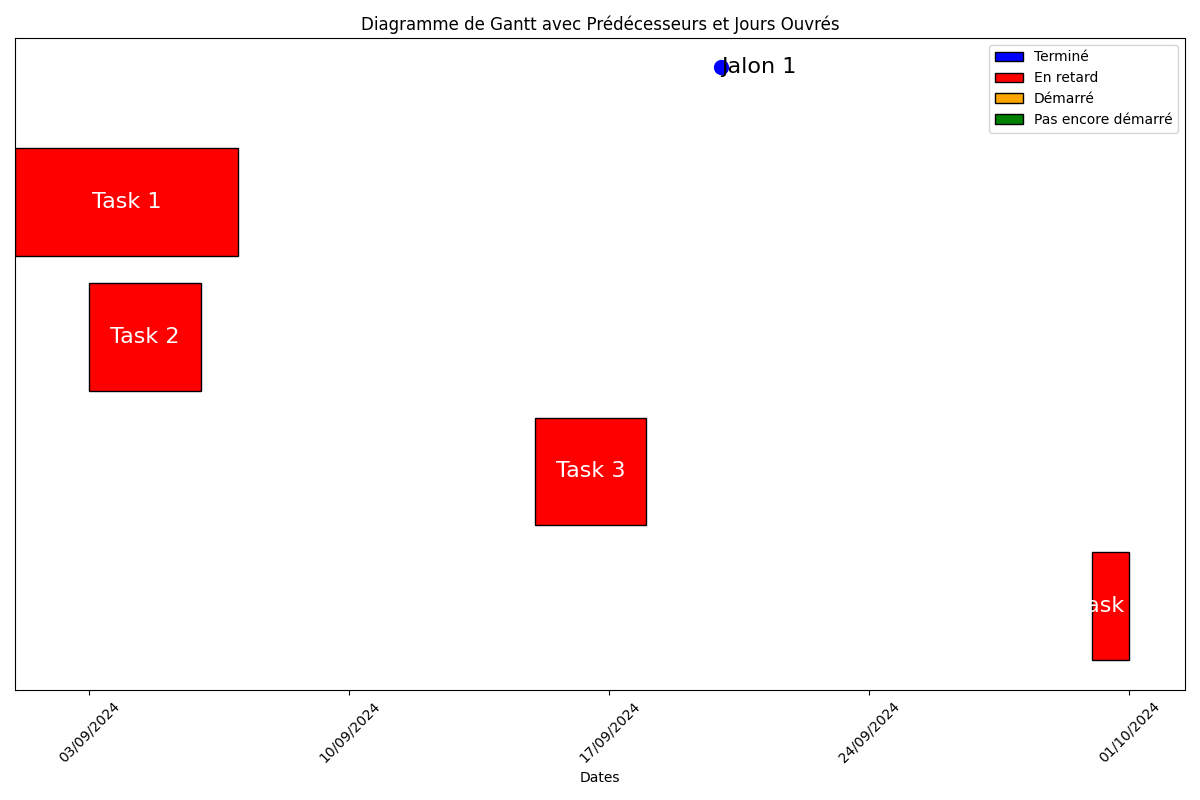
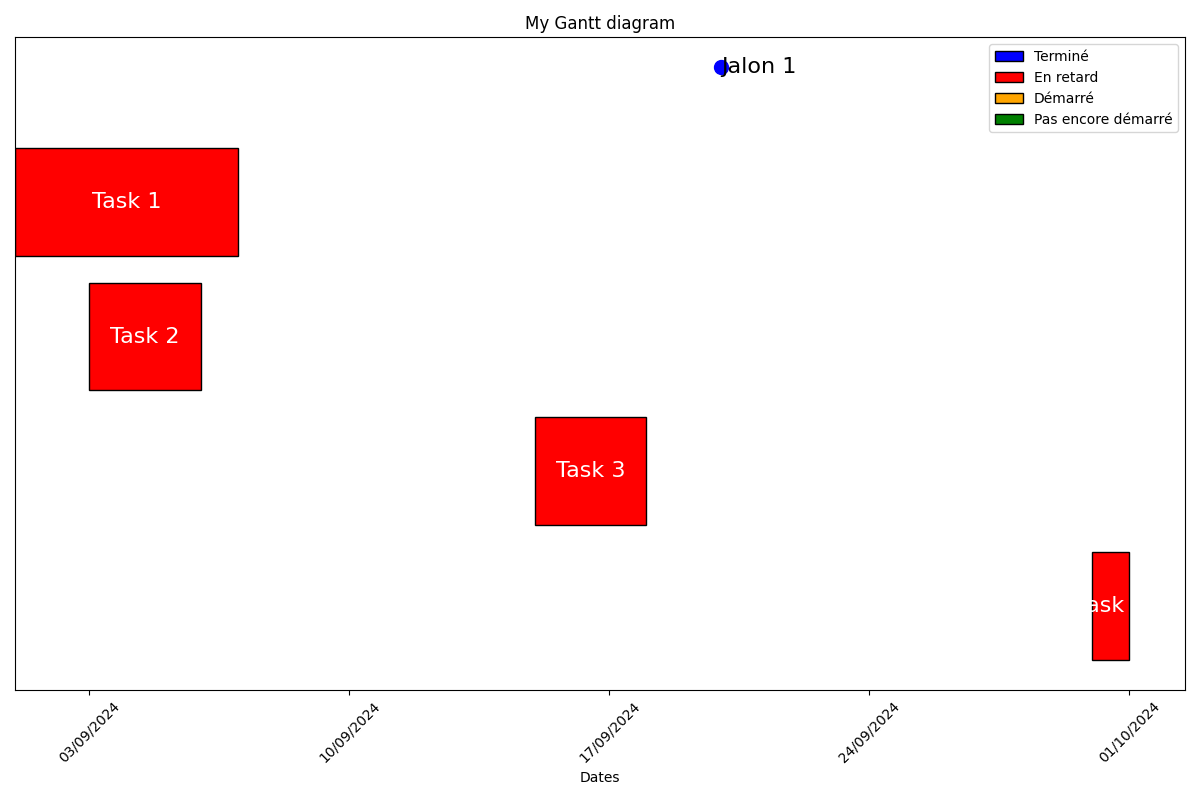
Add of  the diagram title in cell J2 of excel sheet. Define the sheet name as to be Planning

diff --git a/blind_gantt.py b/blind_gantt.py
@@ -30,7 +30,7 @@ excel_file_path = 'taches_et_jalons.xlsx'  # Remplacer par le chemin du fichier 
 try:
     # Lire les données depuis le fichier Excel
     # Utiliser le moteur openpyxl pour éviter les problèmes de dépendances
-    df = pd.read_excel(excel_file_path, engine='openpyxl')
+    df = pd.read_excel(excel_file_path, engine='openpyxl', sheet_name= 'Planning')
 except FileNotFoundError as e:
     logging.error(f"Erreur : Le fichier {excel_file_path} est introuvable. {e}")
     exit(1)
@@ -39,14 +39,14 @@ except ValueError as e:
     exit(1)
 
 # Vérifier les colonnes nécessaires
-required_columns = ['Task', 'Start', 'Duration', 'Predecessor']
+required_columns = ['Task ID', 'Task', 'Start', 'Duration', 'Predecessor']
 for col in required_columns:
     if col not in df.columns:
         logging.error(f"Erreur : La colonne '{col}' est manquante dans le fichier Excel.")
         exit(1)
 
 # Filtrer les lignes qui sont entièrement remplies et qui ont plus que seulement le numéro de tâche
-df = df.dropna(how='any', subset=['Task', 'Start', 'Duration'])
+df = df.dropna(how='any', subset=['Task ID', 'Task', 'Start', 'Duration'])
 df = df[df[['Task', 'Start', 'Duration']].notna().all(axis=1)]
 
 # Supprimer les lignes où seules les colonnes 'Task ID' sont remplies
@@ -63,6 +63,11 @@ print(f"Nombre de tâches et jalons valides trouvés : {total_valid_tasks}")
 working_hours_per_day = 8
 weekend_days = [5, 6]  # Samedi, Dimanche
 current_year = datetime.now().year
+
+# Utiliser openpyxl pour lire le titre du planning dans la cellule J2
+titre_graphe = pd.read_excel(excel_file_path, engine='openpyxl', sheet_name='Planning').iloc[0, 9]
+
+print('Préparation du diagramme de Gantt :', titre_graphe)
 
 # Essayer d'obtenir les jours fériés pour la France
 try:
@@ -120,7 +125,7 @@ for index, row in df.iterrows():
                 df.at[index, 'End'] = calculate_end_date(predecessor_end, row['Duration'])
 
 # Mettre à jour les dates de début dans le fichier Excel
-df.to_excel(excel_file_path, index=False)
+df.to_excel(excel_file_path, sheet_name='Planning', index=False)
 
 # Trier les tâches et jalons en fonction de la date de début
 milestones = df[df['Duration'] == 0].sort_values(by='Start')
@@ -187,7 +192,7 @@ ax.legend(handles=legend_elements, loc='upper right')
 
 # Ajouter des labels
 ax.set_xlabel('Dates')
-ax.set_title('Diagramme de Gantt avec Prédécesseurs et Jours Ouvrés')
+ax.set_title(titre_graphe )
 
 plt.tight_layout()
 
